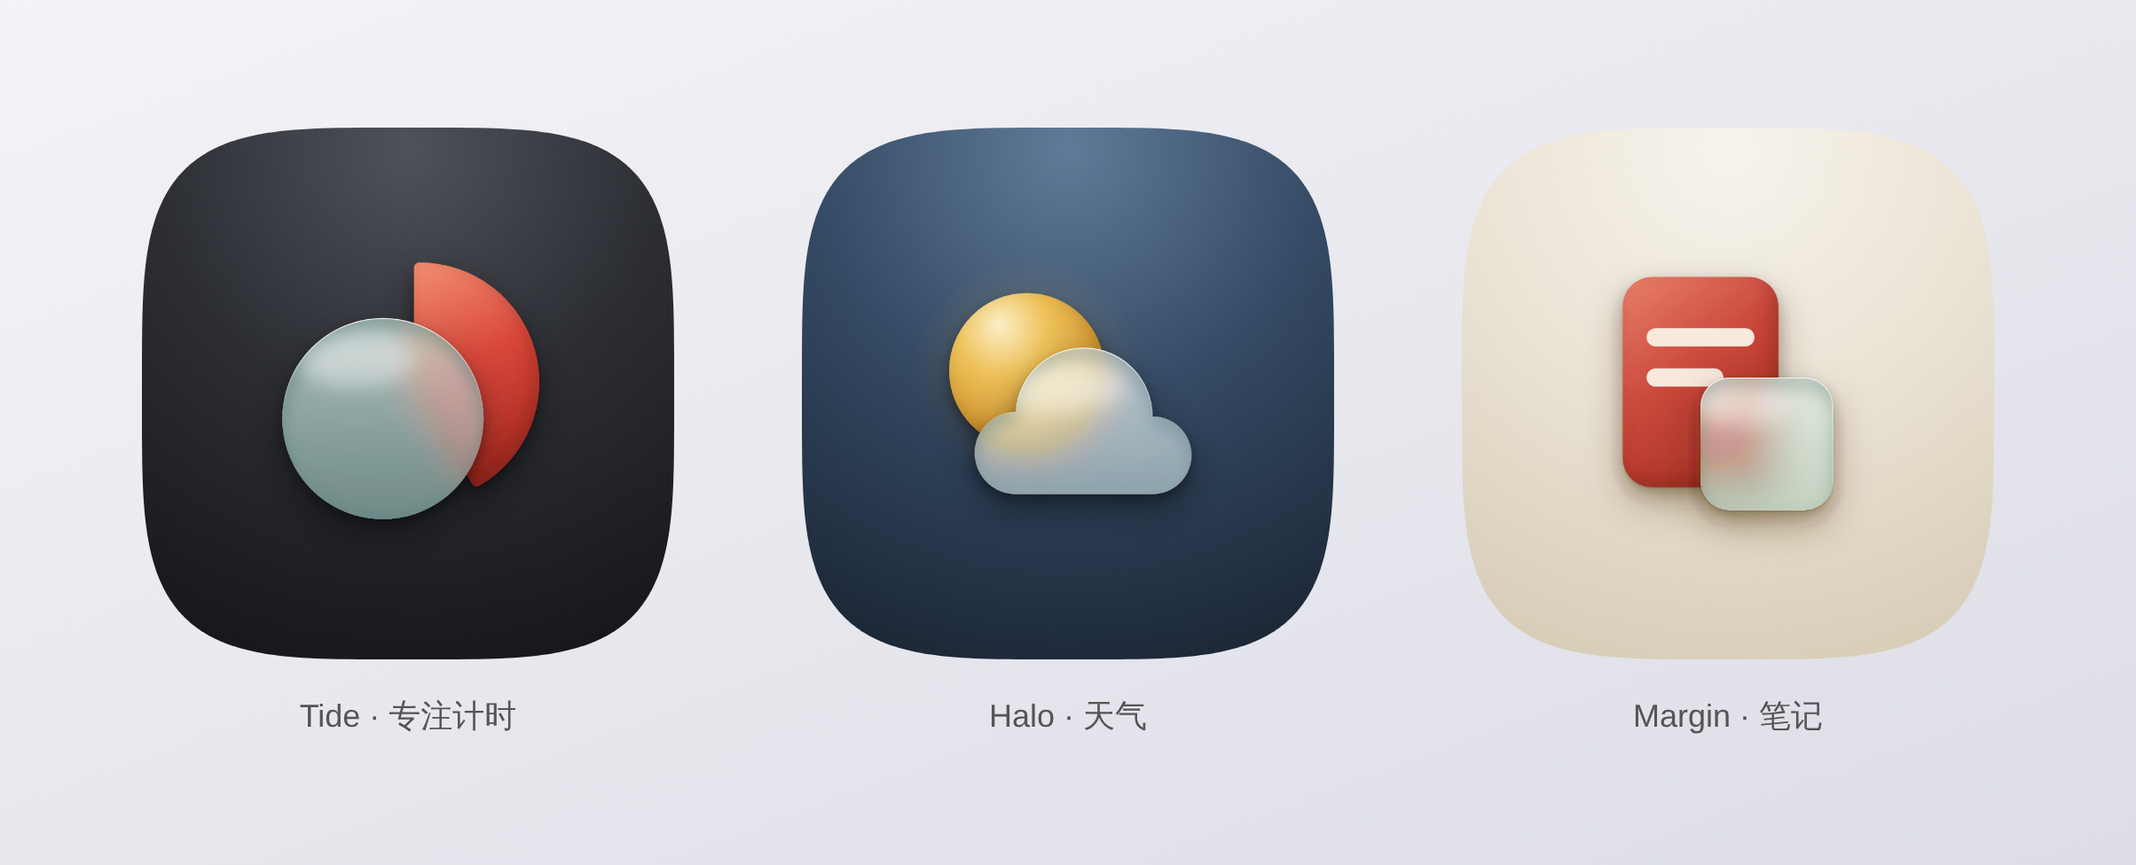
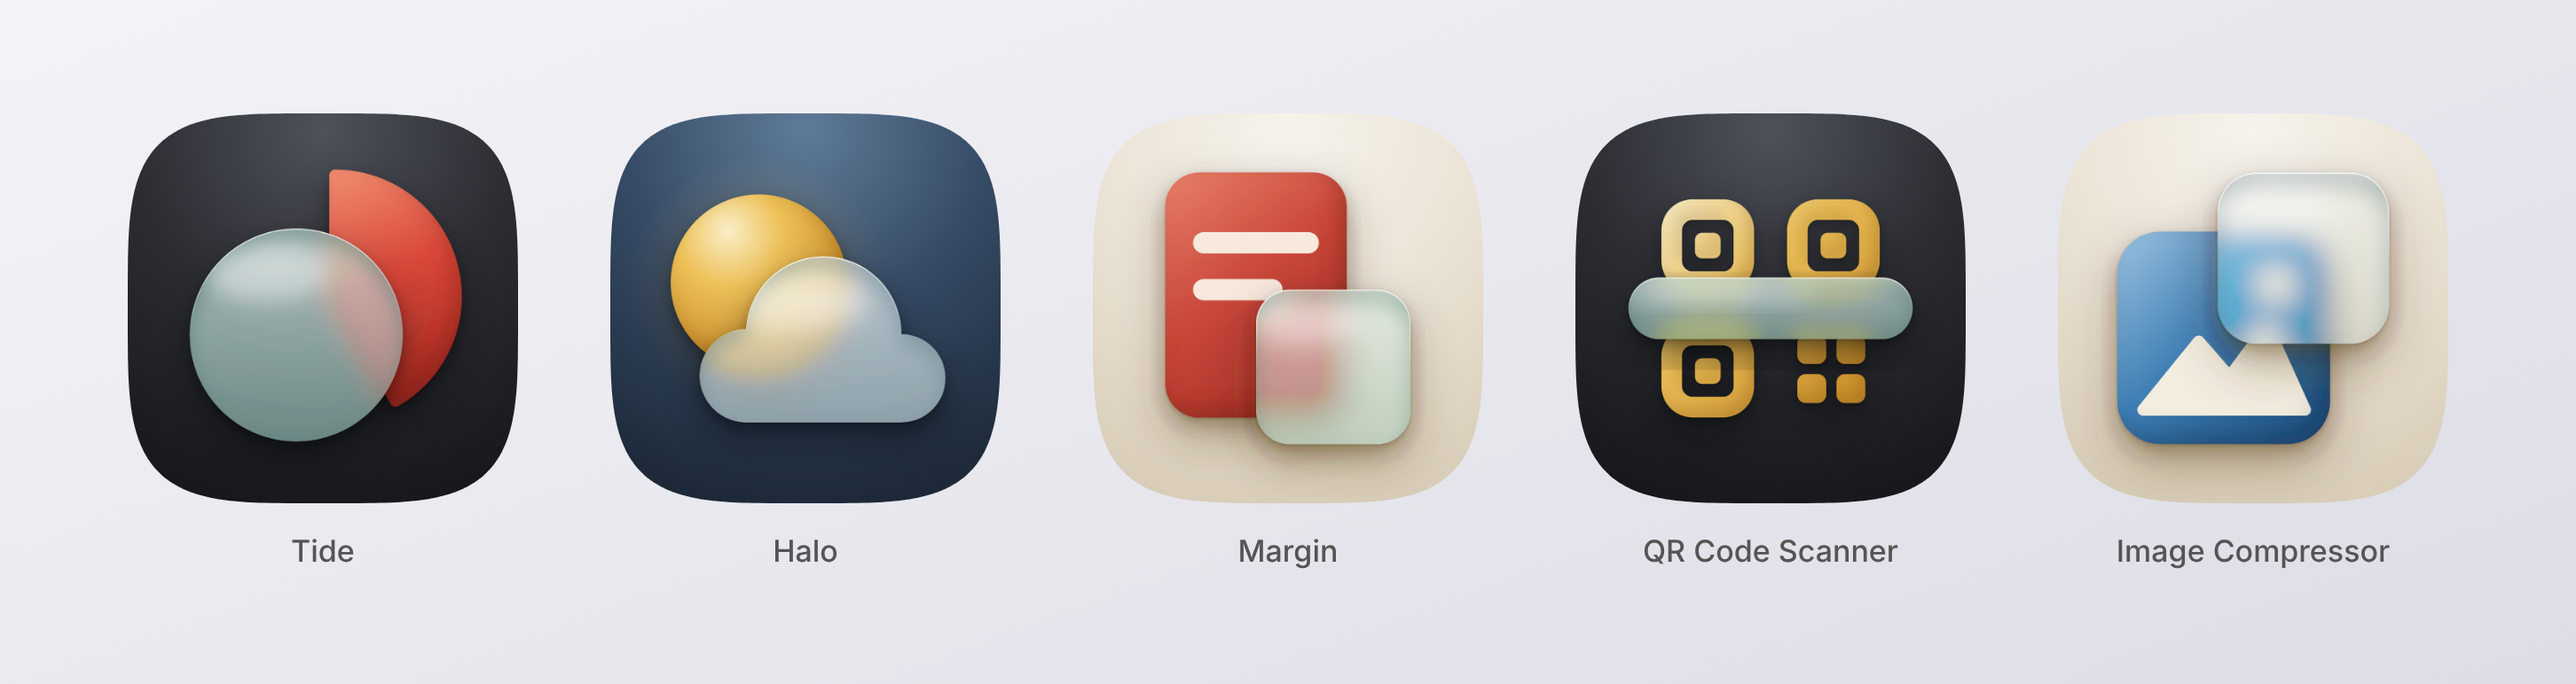
Size subjects on the Apple / Material keyline grid; add two examples
Subjects now fill about 70% of the canvas (long side ~720 px) instead of
being drawn at 88% for empty space. Template, rules and examples updated;
adds the QR Code Scanner and Image Compressor icons as examples.

Claude-Session: https://claude.ai/code/session_01Ryqgs4mNU62SDVVXv1wPwj

diff --git a/SKILL.md b/SKILL.md
@@ -7,7 +7,7 @@ description: Design app icons and logo marks as production SVG in Rian's house s
 
 把一句产品描述变成一枚可以直接上架的 app 图标：1024×1024 全出血 SVG 母版、PNG 导出和一张评审对照图。
 
-只有一种风格：**简洁、明确、有质感，带东方气质**。构造学 Google（几何、关键线、自信的色块），光影学 Apple（体积、多层投影），材质和颜色来自中国美学（青瓷釉、传统色、留白）。详细规则在 `references/style.md`，SVG 配方和平台规格在 `references/construction.md`。动笔前两份都要读。
+只有一种风格：**简洁、明确、有质感，带东方气质**。构造学 Google（几何、关键线、自信的色块），光影学 Apple（体积、多层投影），材质和颜色来自中国美学（青瓷釉、传统色）。详细规则在 `references/style.md`，SVG 配方和平台规格在 `references/construction.md`。动笔前两份都要读。
 
 ## 风格的签名
 
@@ -17,7 +17,7 @@ description: Design app icons and logo marks as production SVG in Rian's house s
 2. **实色图形**：一个有体积感的传统色几何形，在后面
 3. **瓷釉**：一个青瓷釉质的几何形，叠在前面，背后的颜色微微晕出；下沿积釉，上方一片柔光
 
-实色和瓷釉的**重叠处**是图标的视觉焦点，也是这个风格的签名。主体按 88% 缩放，四周留白。示例见 `examples/`。
+实色和瓷釉的**重叠处**是图标的视觉焦点，也是这个风格的签名。主体尺寸按 Apple 和 Google 的图标网格，长边约占画布 70%，饱满不空。示例见 `examples/`。
 
 ## 工作流程
 
@@ -46,7 +46,7 @@ description: Design app icons and logo marks as production SVG in Rian's house s
 
 从 `assets/template.svg` 复制开始，只改标了 TODO 的地方：颜色、实色图形、釉的形状、渐变和釉光坐标、整体 transform。滤镜和瓷釉配方就是这个风格的质感来源，不要重写，也不要删减。
 
-- 主体（实色 + 釉）在缩放前落在中心 600 × 600 内，模板会整体缩到 88%；视觉重心在画布中心。
+- 主体（实色 + 釉）用模板的整体 transform 缩放到长边约 720 px（见 `style.md` 的「主体尺寸」），视觉重心在画布中心。
 - 釉的形状必须是**一个闭合轮廓**；由多个形状拼成时先合并成一条 path，否则重叠处颜色会加深。
 - 坐标、半径、角度用整齐的数字，并在注释里写出几何关系。
 
@@ -64,6 +64,7 @@ python3 scripts/render.py path/to/icon.svg -o renders
 | 釉面一片灰，看不出背后的颜色 | 釉要压在实色的**色块**上，而不是压在实色里的浅色细节（山、线条）上；移动釉或实色，让重叠区里主色占大半 |
 | 釉像塑料 | 检查积釉深带和左上釉光是否都在，釉光要大、要软 |
 | 重叠处没看头 | 让实色和釉重叠 25%–45% 面积；太少没焦点，太多实色被吞掉 |
+| 主体显得小、四周太空 | 加大 transform 里的 scale，让长边到 720 px 左右 |
 | 小尺寸糊成一团 | 加大两层的明度差，减少釉形状上的凹凸细节 |
 | 看起来很平、不高级 | 对照 `style.md` 的「质感从哪里来」六件事逐项检查 |
 | 颜色廉价、不够东方 | 换回传统色板里的颜色；底色压深、实色降饱和 |

diff --git a/references/style.md b/references/style.md
@@ -1,12 +1,12 @@
 # 风格规则：东方质感
 
-一句话：**Apple 的精致，宋瓷的温润。** 构造学 Google 产品图标（几何、关键线、自信的色块），光影学 Apple（体积、多层投影），材质和颜色来自中国美学：青瓷釉、传统色、留白。
+一句话：**Apple 的精致，宋瓷的温润。** 构造和尺寸学 Google 产品图标与 Apple 图标网格（几何、关键线、饱满的主体），光影学 Apple（体积、多层投影），材质和颜色来自中国美学：青瓷釉、传统色。
 
 ## 原则
 
 1. **简洁：两层就够。** 一个实色图形加一层瓷釉。不加第三个元素，没有装饰线，没有纹样。
 2. **明确：一眼看懂。** 宁可具象也不要晦涩。用户在主屏上扫一眼就该知道这是什么 app。
-3. **留白：计白当黑。** 主体按 88% 缩放绘制，四周的空也是设计的一部分。宁可小，不要满。
+3. **饱满：按 Apple 和 Google 的图标网格定尺寸。** 主体要撑得起画面，像系统自带 app 一样一眼就看到；四周保留的只是网格要求的边距，不刻意大面积留白。
 4. **温润：像瓷，不像塑料。** 釉面半透、偏厚、柔光，背后的颜色只是微微透出来；高光是一大片柔和的釉光，不是锐利的反光点。
 5. **几何：每个形都能说出尺寸。** 只用圆、圆角矩形、胶囊、扇形和它们的合并。转角大方（圆角矩形 rx ≥ 宽度的 18%），尖角用 round-join 描边磨圆。
 6. **一个光源。** 光从正上方偏左来：底色顶部最亮，实色的高光在左上、暗部在右下，阴影向下落，釉光在上方。
@@ -31,7 +31,8 @@
 | 项目 | 值 |
 |---|---|
 | 画布 | 1024 × 1024，全出血，不画圆角 |
-| 主体 | 按 88% 缩放，缩放后落在中心约 530 × 530 内 |
+| 主体尺寸 | 长边约 720 px（画布的 70%），最大不超过 780 px；参考 Material 产品图标关键线（方形约 79%、圆形约 92% 的 live area）和 Apple 图标网格，按形状调整：方形主体约 700，圆形主体直径约 740，宽扁形（胶囊、云）宽可到 760、高不超过 600 |
+| 光学居中 | 主体的视觉重心落在画布中心；阴影在下方，主体可以整体上移 8–16 px |
 | 安全区 | 中心 824 × 824 |
 | 底色 | 径向渐变，圆心 (512, 40)，半径 1100，三档：亮 / 中（45%）/ 深 |
 | 颗粒 | 深色底白颗粒 6%，浅色底暖褐颗粒 6% |
@@ -90,7 +91,7 @@
 - [ ] 实色有亮面和暗面，不是一块平涂
 - [ ] 底色有三档色调和细颗粒
 - [ ] 三层阴影都带底色色相，方向一致向下
-- [ ] 四周留白充足，主体不显得挤
+- [ ] 主体饱满：长边约占画布 70%，在系统遮罩的圆角里不被裁到，也不显得空
 - [ ] mono 版本的剪影仍然清楚
 - [ ] 60 px 能认出，16 pt 不糊
 - [ ] 浅色和深色壁纸上都站得住

diff --git a/references/construction.md b/references/construction.md
@@ -22,7 +22,7 @@
 
 要点：
 
-- `#glyph` 和 `#glaze` 用同一个 transform：`translate(512 512) scale(0.88) translate(-512 -512) translate(tx ty)`，其中 tx、ty 用来把主体视觉居中。釉里面的 `<use href="#scene">` 必须用它的**逆变换**：`translate(-tx -ty) translate(512 512) scale(1.13636) translate(-512 -512)`。
+- `#glyph` 和 `#glaze` 用同一个 transform：`translate(512 512) scale(k) translate(-512 -512) translate(tx ty)`。先在 1024 画布上按方便的尺寸画好主体，再用 k 把它放大到 `style.md` 规定的尺寸（主体长边约 720 px，k = 720 ÷ 原始长边），tx、ty 用来把主体视觉居中。釉里面的 `<use href="#scene">` 必须用它的**逆变换**：`translate(-tx -ty) translate(512 512) scale(1/k) translate(-512 -512)`。
 - glaze、lip 渐变的 y 坐标对准釉形状自己的上下沿；釉光椭圆放在釉形状左上三分之一处，宽度约为形状宽度的 70%。
 - 实色是多个形状组合时（比如纸页加两行线），把它们放进一个 `<g filter="url(#inner-solid)">`，再整体包 `elevate`。
 - 根节点只写 `viewBox`，不写宽高。不嵌入位图，不用 `<text>`。
@@ -49,7 +49,7 @@
 | iOS / iPadOS / macOS | 1024 × 1024 PNG，不透明，无圆角 | Xcode 单尺寸 App Icon；或者把三层导入 Icon Composer |
 | iOS 深色模式 | 底色换成墨，实色和釉保持 | 从同一份 SVG 改 `#bg` 渐变即可 |
 | iOS 着色模式 | 透明背景上的白色剪影 | 实色 + 釉合并成一个白色剪影 |
-| Android 自适应图标 | 108 dp 画布，前景在中心 66 dp 圆内 | 等价于 1024 画布中心约 626 px 的圆，600 关键线框天然满足 |
+| Android 自适应图标 | 108 dp 画布，前景在中心 66 dp 圆内 | 等价于 1024 画布中心约 626 px 的圆：导出 Android 版时把 k 再乘 0.85 左右，让主体落进这个圆 |
 | Android 单色图标 | 主体单色剪影 | 同 iOS 着色模式 |
 | Web favicon | `icon.svg` + 32 px ICO + 180 px apple-touch-icon | 16/32 px 时去掉釉的模糊和釉光，只保留两个色块 |
 | PWA | 192 / 512 PNG + maskable 512 | 内容在中心 80% 圆内 |

diff --git a/README.md b/README.md
@@ -2,13 +2,17 @@
 
 一个 Claude skill：把一句产品描述变成一枚可以上架的 app 图标（1024 SVG 母版 + PNG + 评审对照图）。
 
-风格只有一种：**简洁、明确、有质感，带东方气质**。几何构造学 Google，光影学 Apple，材质和颜色来自中国美学。每枚图标都是同样的三层：传统色的底，一个有体积的实色几何形，一层叠在前面的青瓷釉；主体四周留白。
+风格只有一种：**简洁、明确、有质感，带东方气质**。几何构造学 Google，光影学 Apple，材质和颜色来自中国美学。每枚图标都是同样的三层：传统色的底，一个有体积的实色几何形，一层叠在前面的青瓷釉；主体按 Apple 和 Google 的图标网格撑满画面。
 
 ![示例](examples/renders/overview.png)
 
-| Tide 专注计时 | Halo 天气 | Margin 笔记 |
+| 示例 | 配色 | 画了什么 |
 |---|---|---|
-| 墨底，朱砂 25 分钟扇形，天青釉表盘 | 黛蓝底，藤黄太阳，月白釉云 | 宣纸底，朱砂红笺，粉青釉便签 |
+| Tide 专注计时 | 墨 · 朱砂 · 天青釉 | 25 分钟扇形，釉面表盘 |
+| Halo 天气 | 黛蓝 · 藤黄 · 月白釉 | 太阳，釉面云 |
+| Margin 笔记 | 宣纸 · 朱砂 · 粉青釉 | 红笺，釉面便签 |
+| QR Code Scanner | 墨 · 藤黄 · 天青釉 | 二维码，釉面扫描条 |
+| Image Compressor | 宣纸 · 石青 · 月白釉 | 风景照，透过釉变模糊的压缩副本 |
 
 ## 安装
 

diff --git a/references/sources.md b/references/sources.md
@@ -5,7 +5,7 @@
 | 项目 | 借鉴了什么 | 许可 |
 |---|---|---|
 | [Apple Human Interface Guidelines · App icons](https://developer.apple.com/design/human-interface-guidelines/app-icons) | 1024 全出血母版、系统遮罩、分层图标与 Icon Composer、简洁可辨识的原则 | 设计规范（仅参考） |
-| 宋代青瓷（汝窑、龙泉窑）与中国传统色 | 釉色（天青、月白、粉青）、积釉与温润的釉光；墨、黛蓝、宣纸、朱砂、藤黄等配色；留白的构图观 | 文化参考 |
+| 宋代青瓷（汝窑、龙泉窑）与中国传统色 | 釉色（天青、月白、粉青）、积釉与温润的釉光；墨、黛蓝、宣纸、朱砂、藤黄等配色 | 文化参考 |
 | [Material Design 3](https://m3.material.io/) 与 Google 产品图标规范 | 几何构造与关键线、色块、两段式投影（环境光 + 接触光）、自适应图标安全区 | 设计规范（仅参考） |
 | [anthropics/skills · canvas-design](https://github.com/anthropics/skills/tree/main/skills/canvas-design) | 「先定义设计哲学再动手」的两段式流程；打磨阶段「只精修、不加东西」的原则；对工艺感的反复强调 | Apache-2.0 |
 | [anthropics/skills · frontend-design](https://github.com/anthropics/skills/tree/main/skills/frontend-design) | 列出 AI 生成设计的常见特征并主动避开；先写方案、对照需求自审、再执行 | Apache-2.0 |
